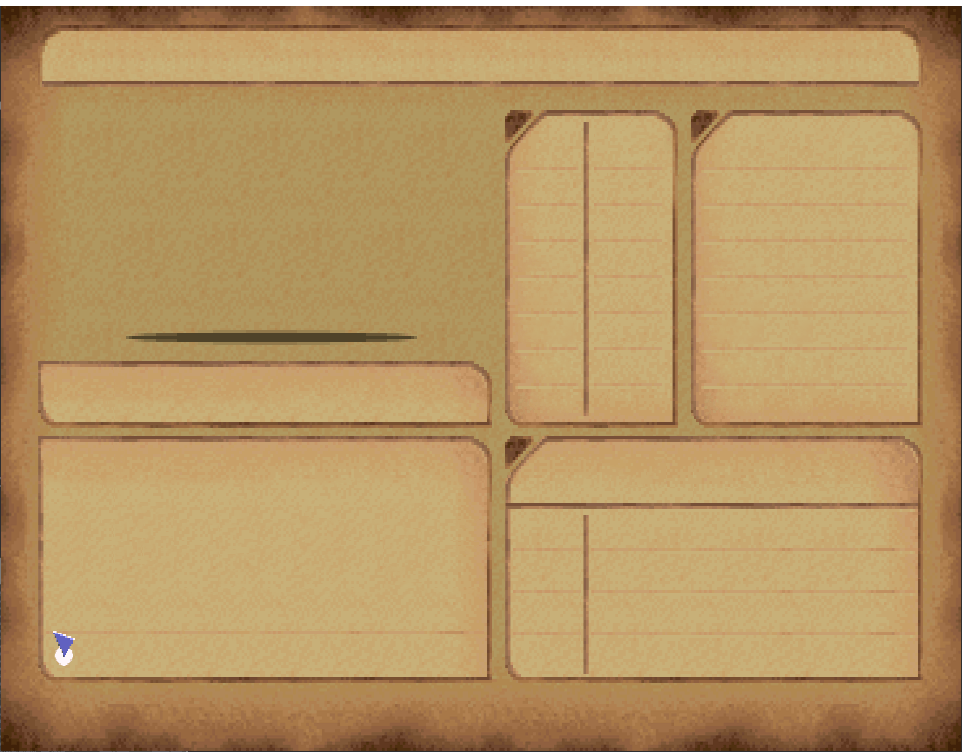
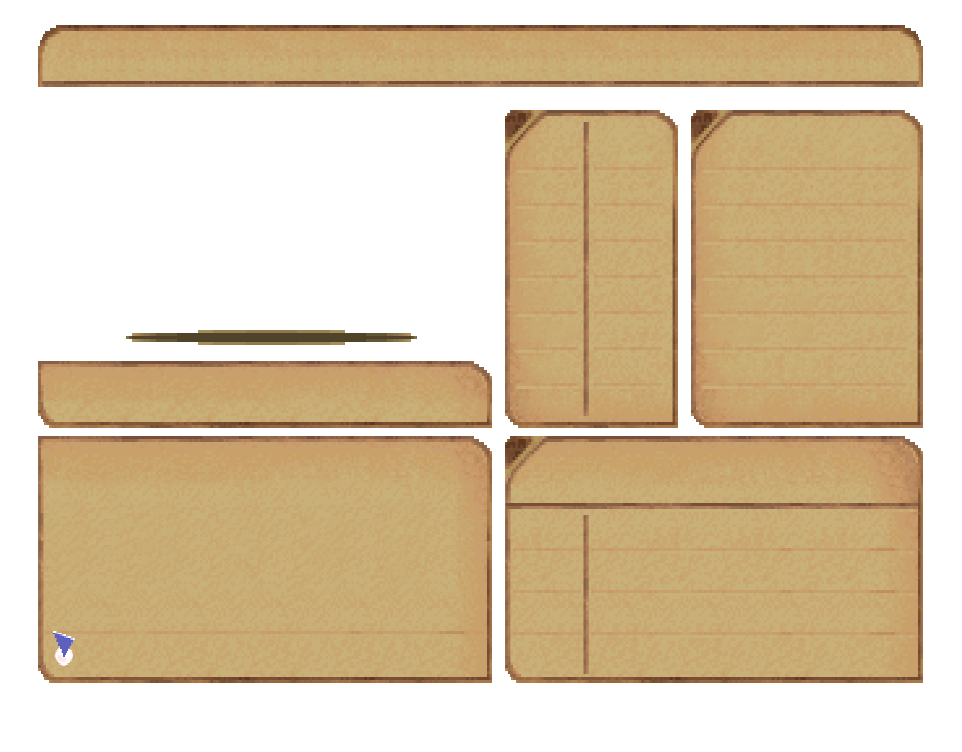
Fixed bestiary graphics offset on expanded display

diff --git a/src/main/java/legend/game/inventory/screens/ArchiveBestiaryRenderer.java b/src/main/java/legend/game/inventory/screens/ArchiveBestiaryRenderer.java
@@ -98,6 +98,7 @@ public class ArchiveBestiaryRenderer {
   private int bestiarySeenCount;
   private UiBox listBox;
   private final WMapModelAndAnimData258 modelAndAnimData_800c66a8;
+  private final NumberFormat nf = new DecimalFormat("000");
 
   private final FontOptions headerFont;
   private final FontOptions headerNumberFont;
@@ -120,13 +121,11 @@ public class ArchiveBestiaryRenderer {
   private final FontOptions completeFont;
   private final FontOptions sortFont;
 
-  public int entryIndex;
   private float currentBoxOffsetX;
-  public boolean isListVisible;
   private int listFirstVisibleItem;
   private int currentSort;
-
-  private final NumberFormat nf = new DecimalFormat("000");
+  public int entryIndex;
+  public boolean isListVisible;
 
   public int getEntryCount() {
     return this.bestiaryEntries.size();
@@ -444,16 +443,16 @@ public class ArchiveBestiaryRenderer {
   private void renderGraphics() {
     final float xOffset = RENDERER.getWidescreenOrthoOffsetX();
 
-    this.m.translation(-0.5f - xOffset, 0, 128);
-    this.m.scale(369f, 241f, 1);
+    this.m.translation(xOffset, 0, 128);
+    this.m.scale(368f, 240f, 1);
 
     RENDERER
       .queueOrthoModel(this.quad, this.m, QueuedModelStandard.class)
-      .texture(this.textures[0]);
+      .texture(this.textures[0]); //Background+Frames
 
     if(this.monster.rank > 0) {
-      this.m.translation(-0.5f - xOffset, 0, 128);
-      this.m.scale(369f, 241f, 1);
+      this.m.translation(xOffset, 0, 128);
+      this.m.scale(368f, 240f, 1);
 
       RENDERER
         .queueOrthoModel(this.quad, this.m, QueuedModelStandard.class)
